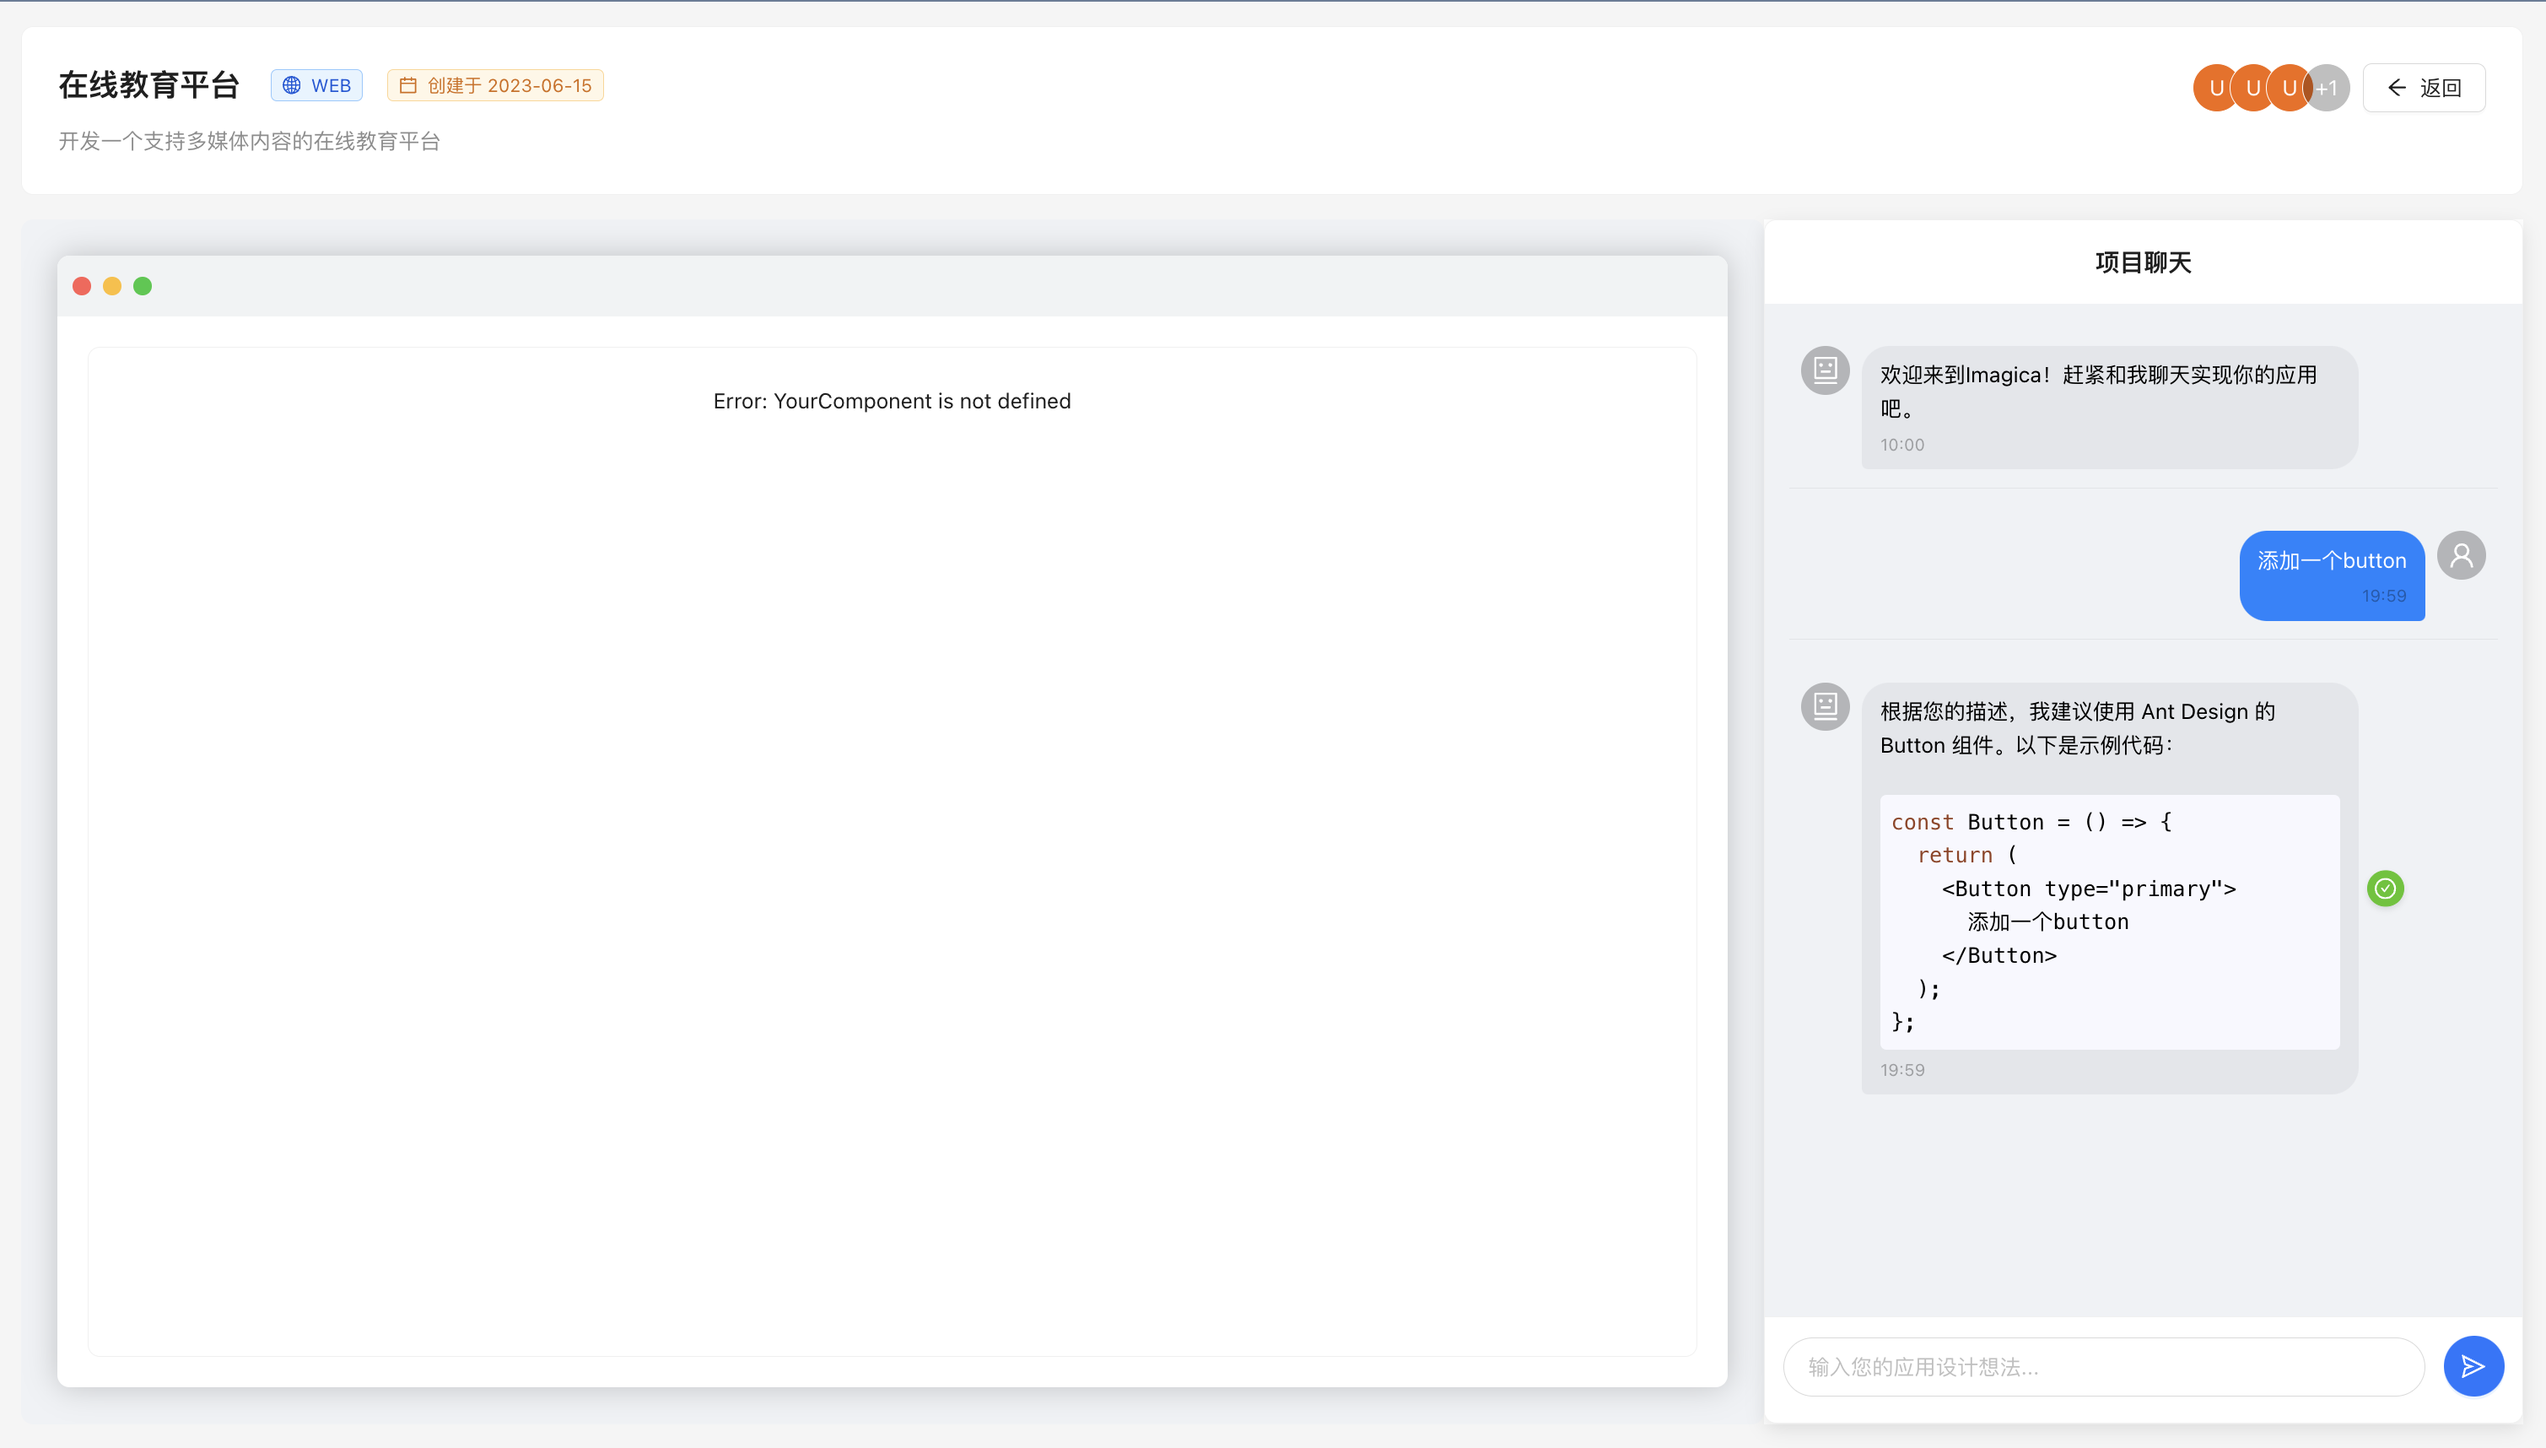
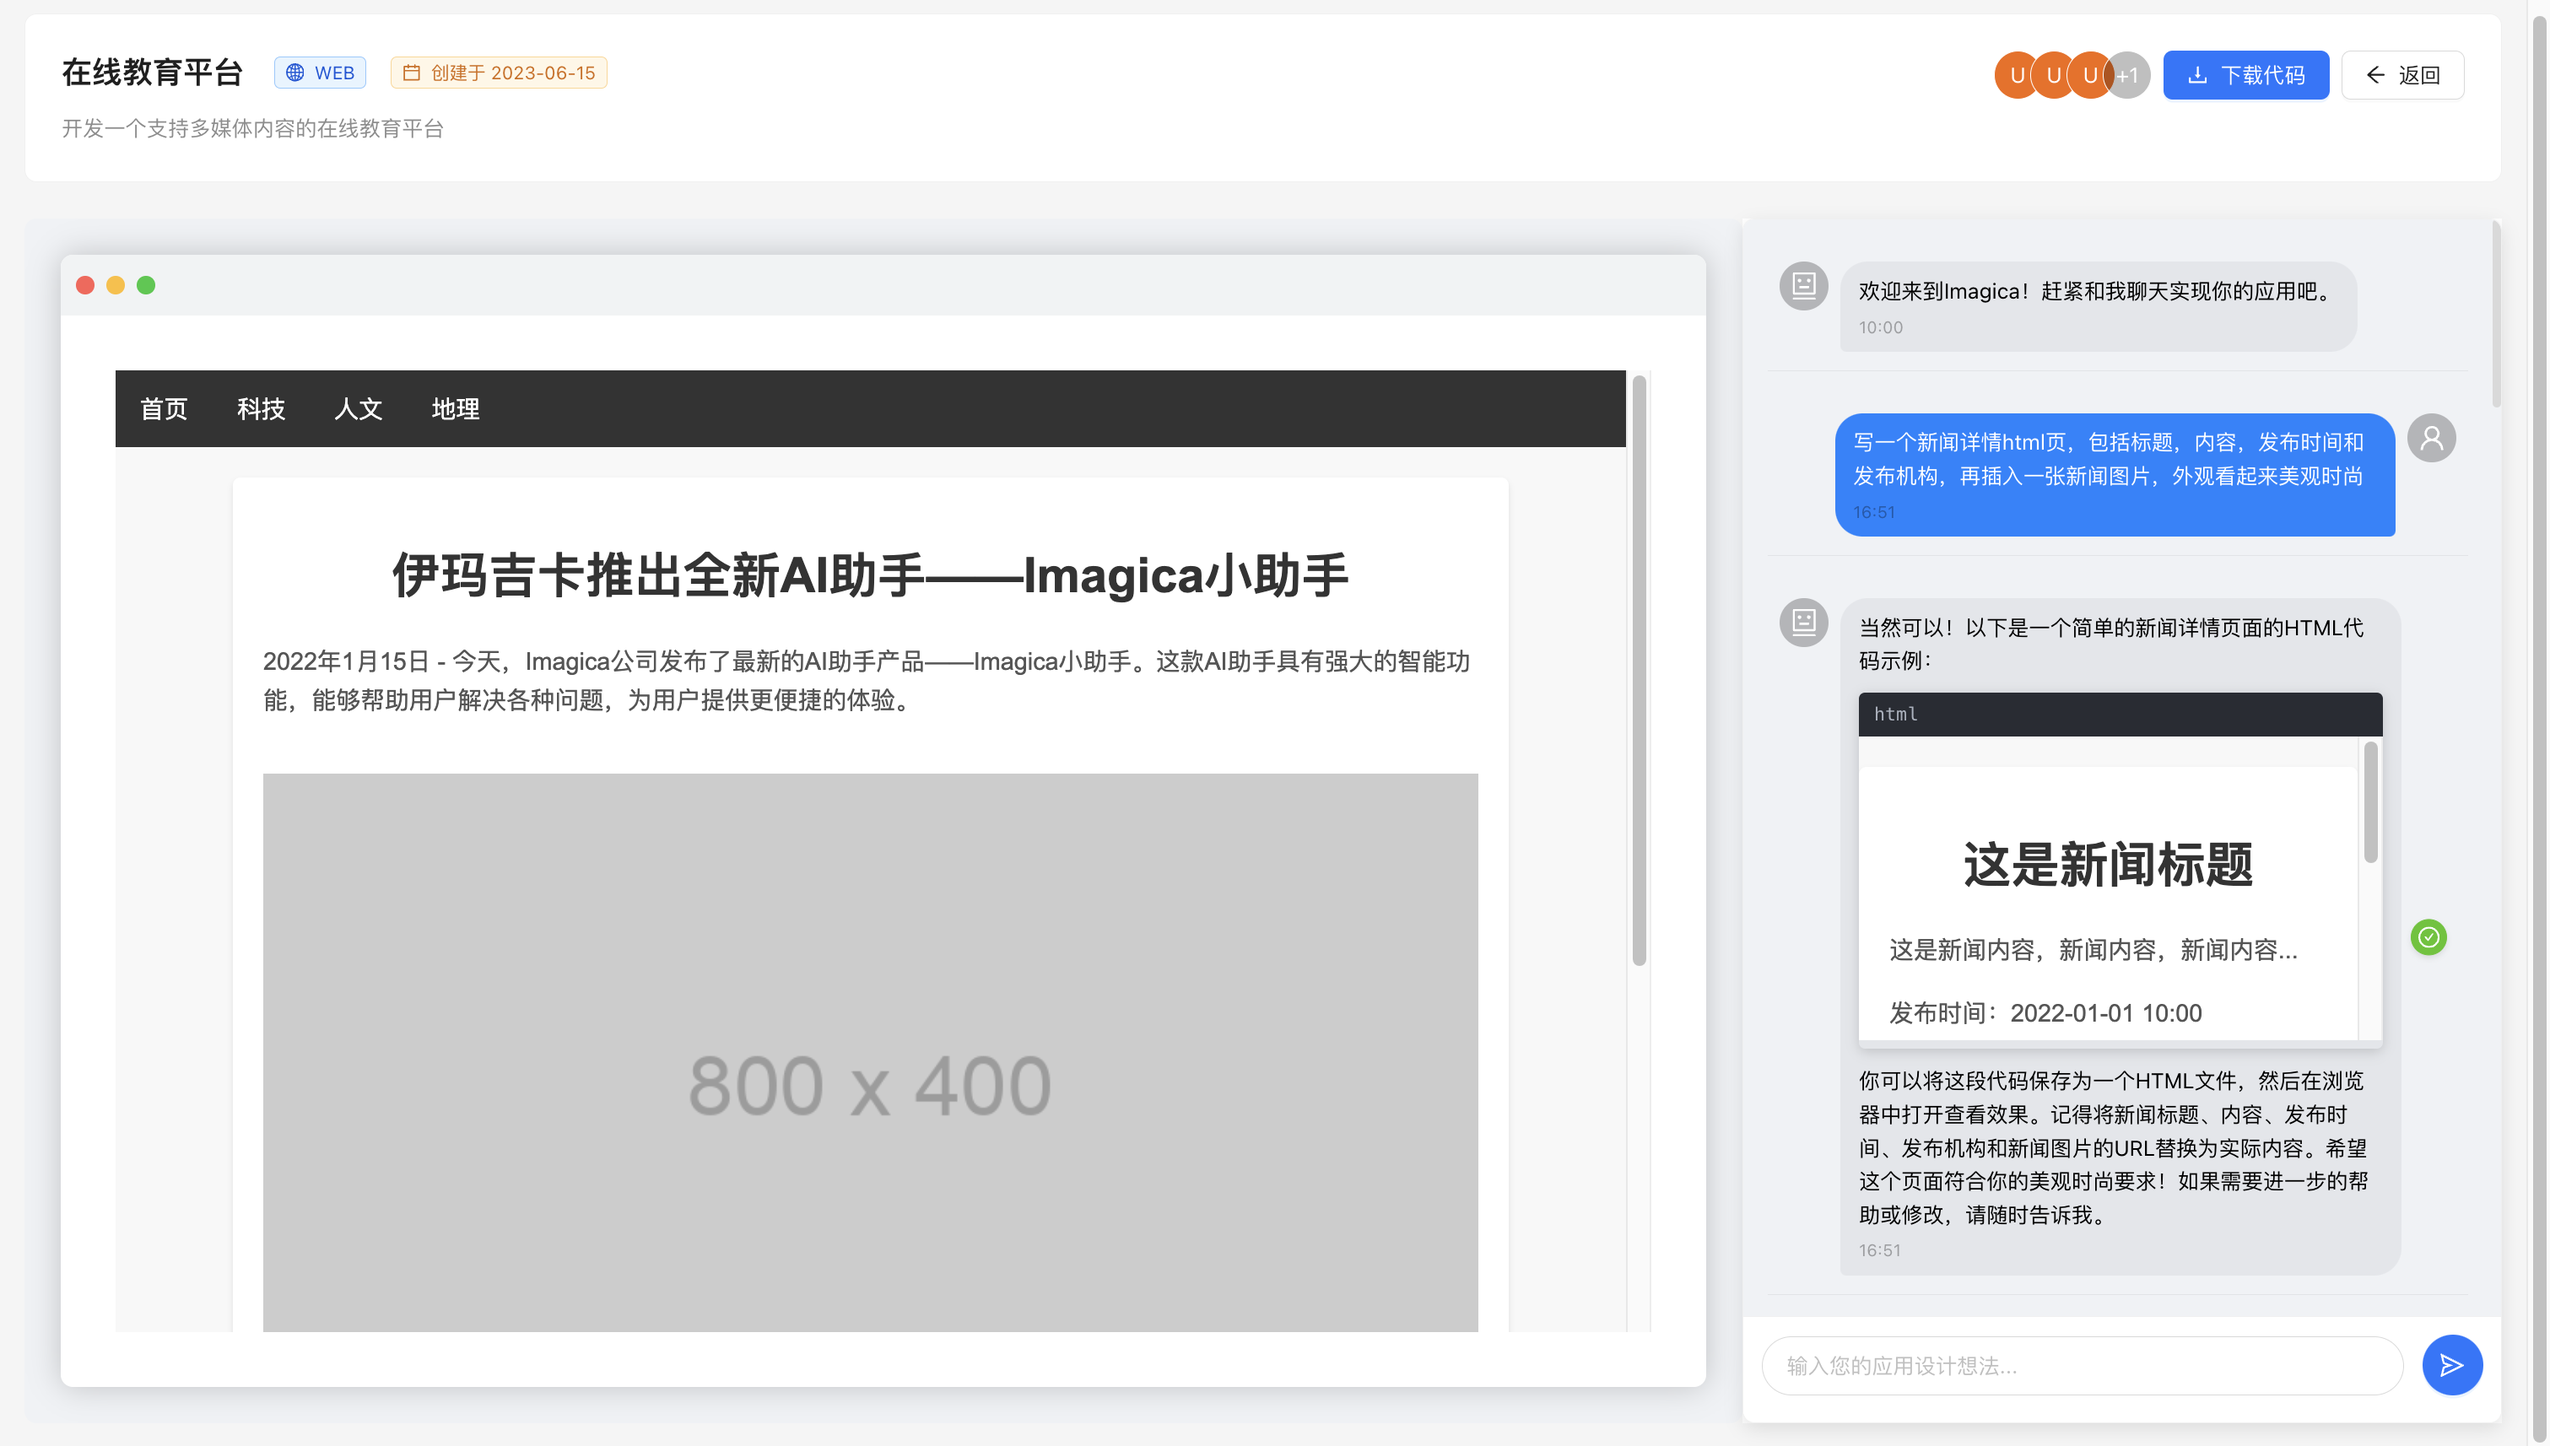
update

diff --git a/src/pages/Detail/Detail.js b/src/pages/Detail/Detail.js
@@ -65,16 +65,14 @@ const Detail = () => {
             {isMobileProject ? (
               <div className={styles.iphoneModel}>
                 <div className={styles.iphoneScreen}>
-                  <div className={styles.appPreview}>
-                    {previewCode ? (
-                      <CodePreview code={previewCode} />
-                    ) : (
-                      <>
-                        <h2>项目预览</h2>
-                        <p>{project.description}</p>
-                      </>
-                    )}
-                  </div>
+                  {previewCode ? (
+                    <CodePreview code={previewCode} />
+                  ) : (
+                    <>
+                      <h2>项目预览</h2>
+                      <p>{project.description}</p>
+                    </>
+                  )}
                 </div>
                 <div className={styles.iphoneNotch}></div>
               </div>

diff --git a/src/components/ProjectChat/ProjectChat.js b/src/components/ProjectChat/ProjectChat.js
@@ -47,6 +47,8 @@ const ProjectChat = ({ onAcceptCode, initialChatList, onUpdateChatList }) => {
       setIsLoading(true);
       setIsTyping(true);
 
+      userMsg.content = `请帮我用html实现${userMsg.content}`;
+
       try {
         const response = await fetch('http://openai-proxy.brain.loocaa.com/v1/chat/completions', {
           method: 'POST',

diff --git a/src/components/ProjectChat/ProjectChat.module.css b/src/components/ProjectChat/ProjectChat.module.css
@@ -13,7 +13,7 @@
   overflow-y: auto;
   padding: 16px;
   background-color: #f0f2f5;
-  height: calc(100% - 70px);
+  height: calc(100% - 112px);
 }
 
 .messageItem {
